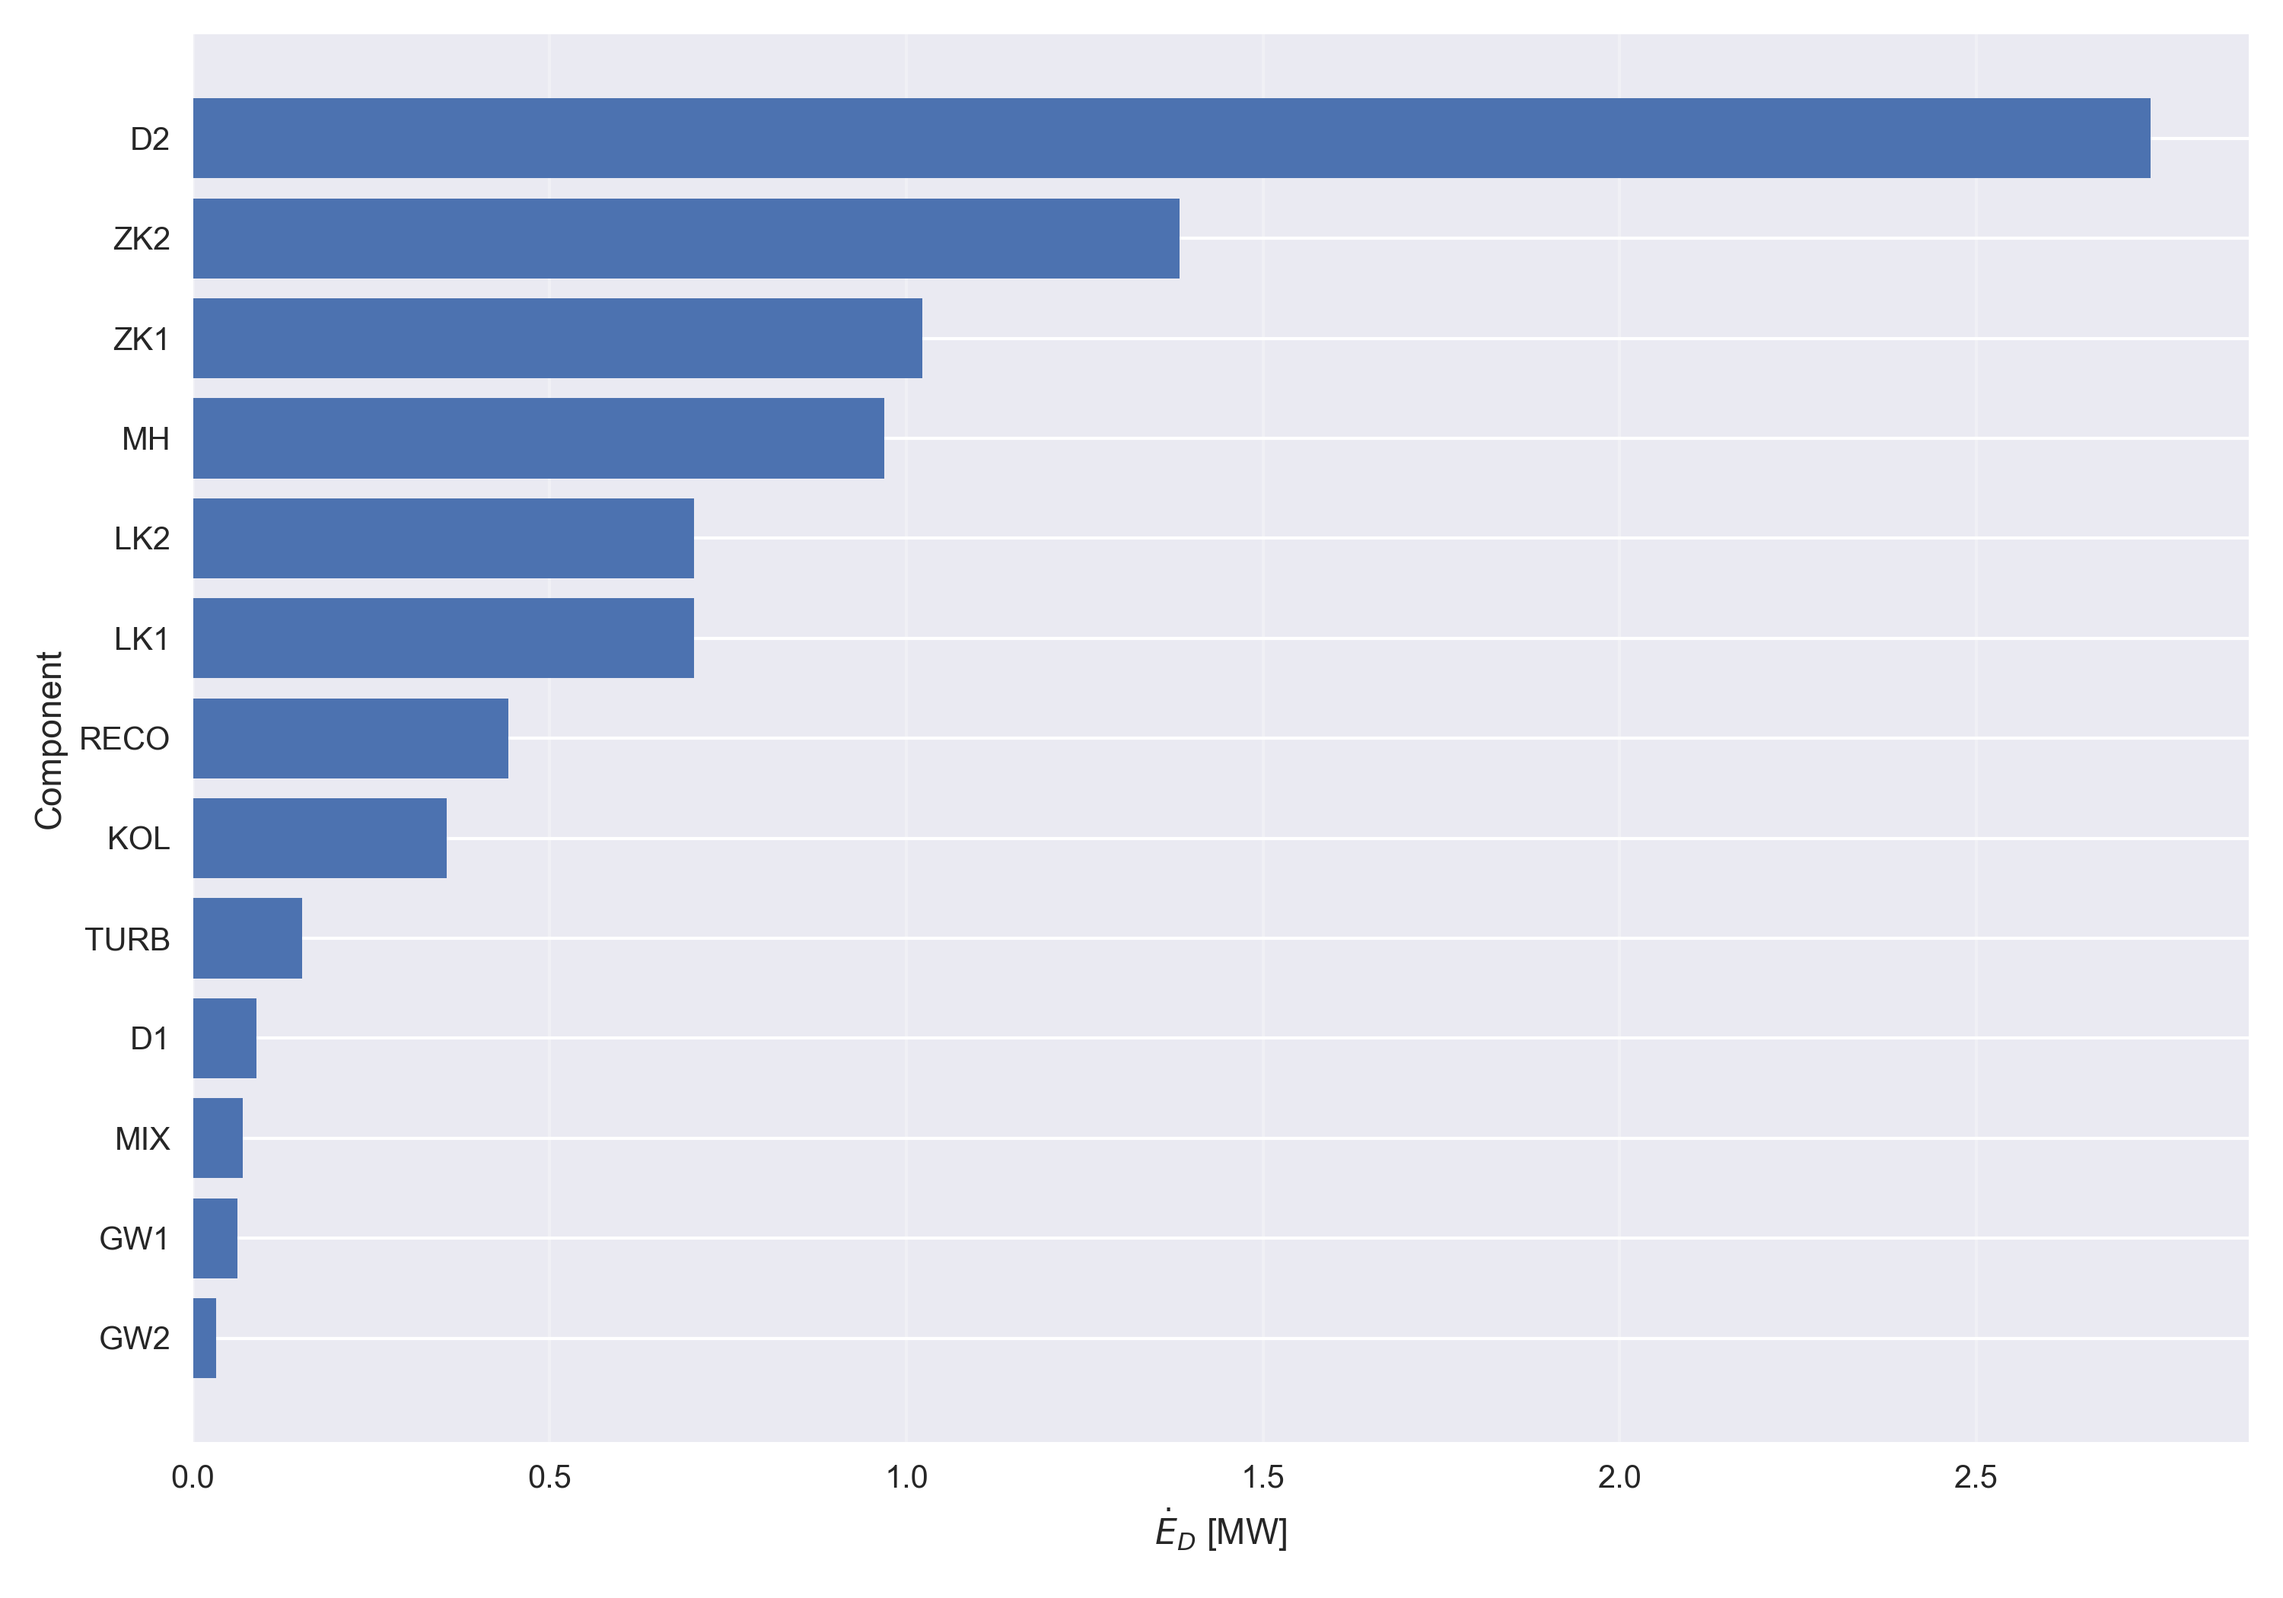
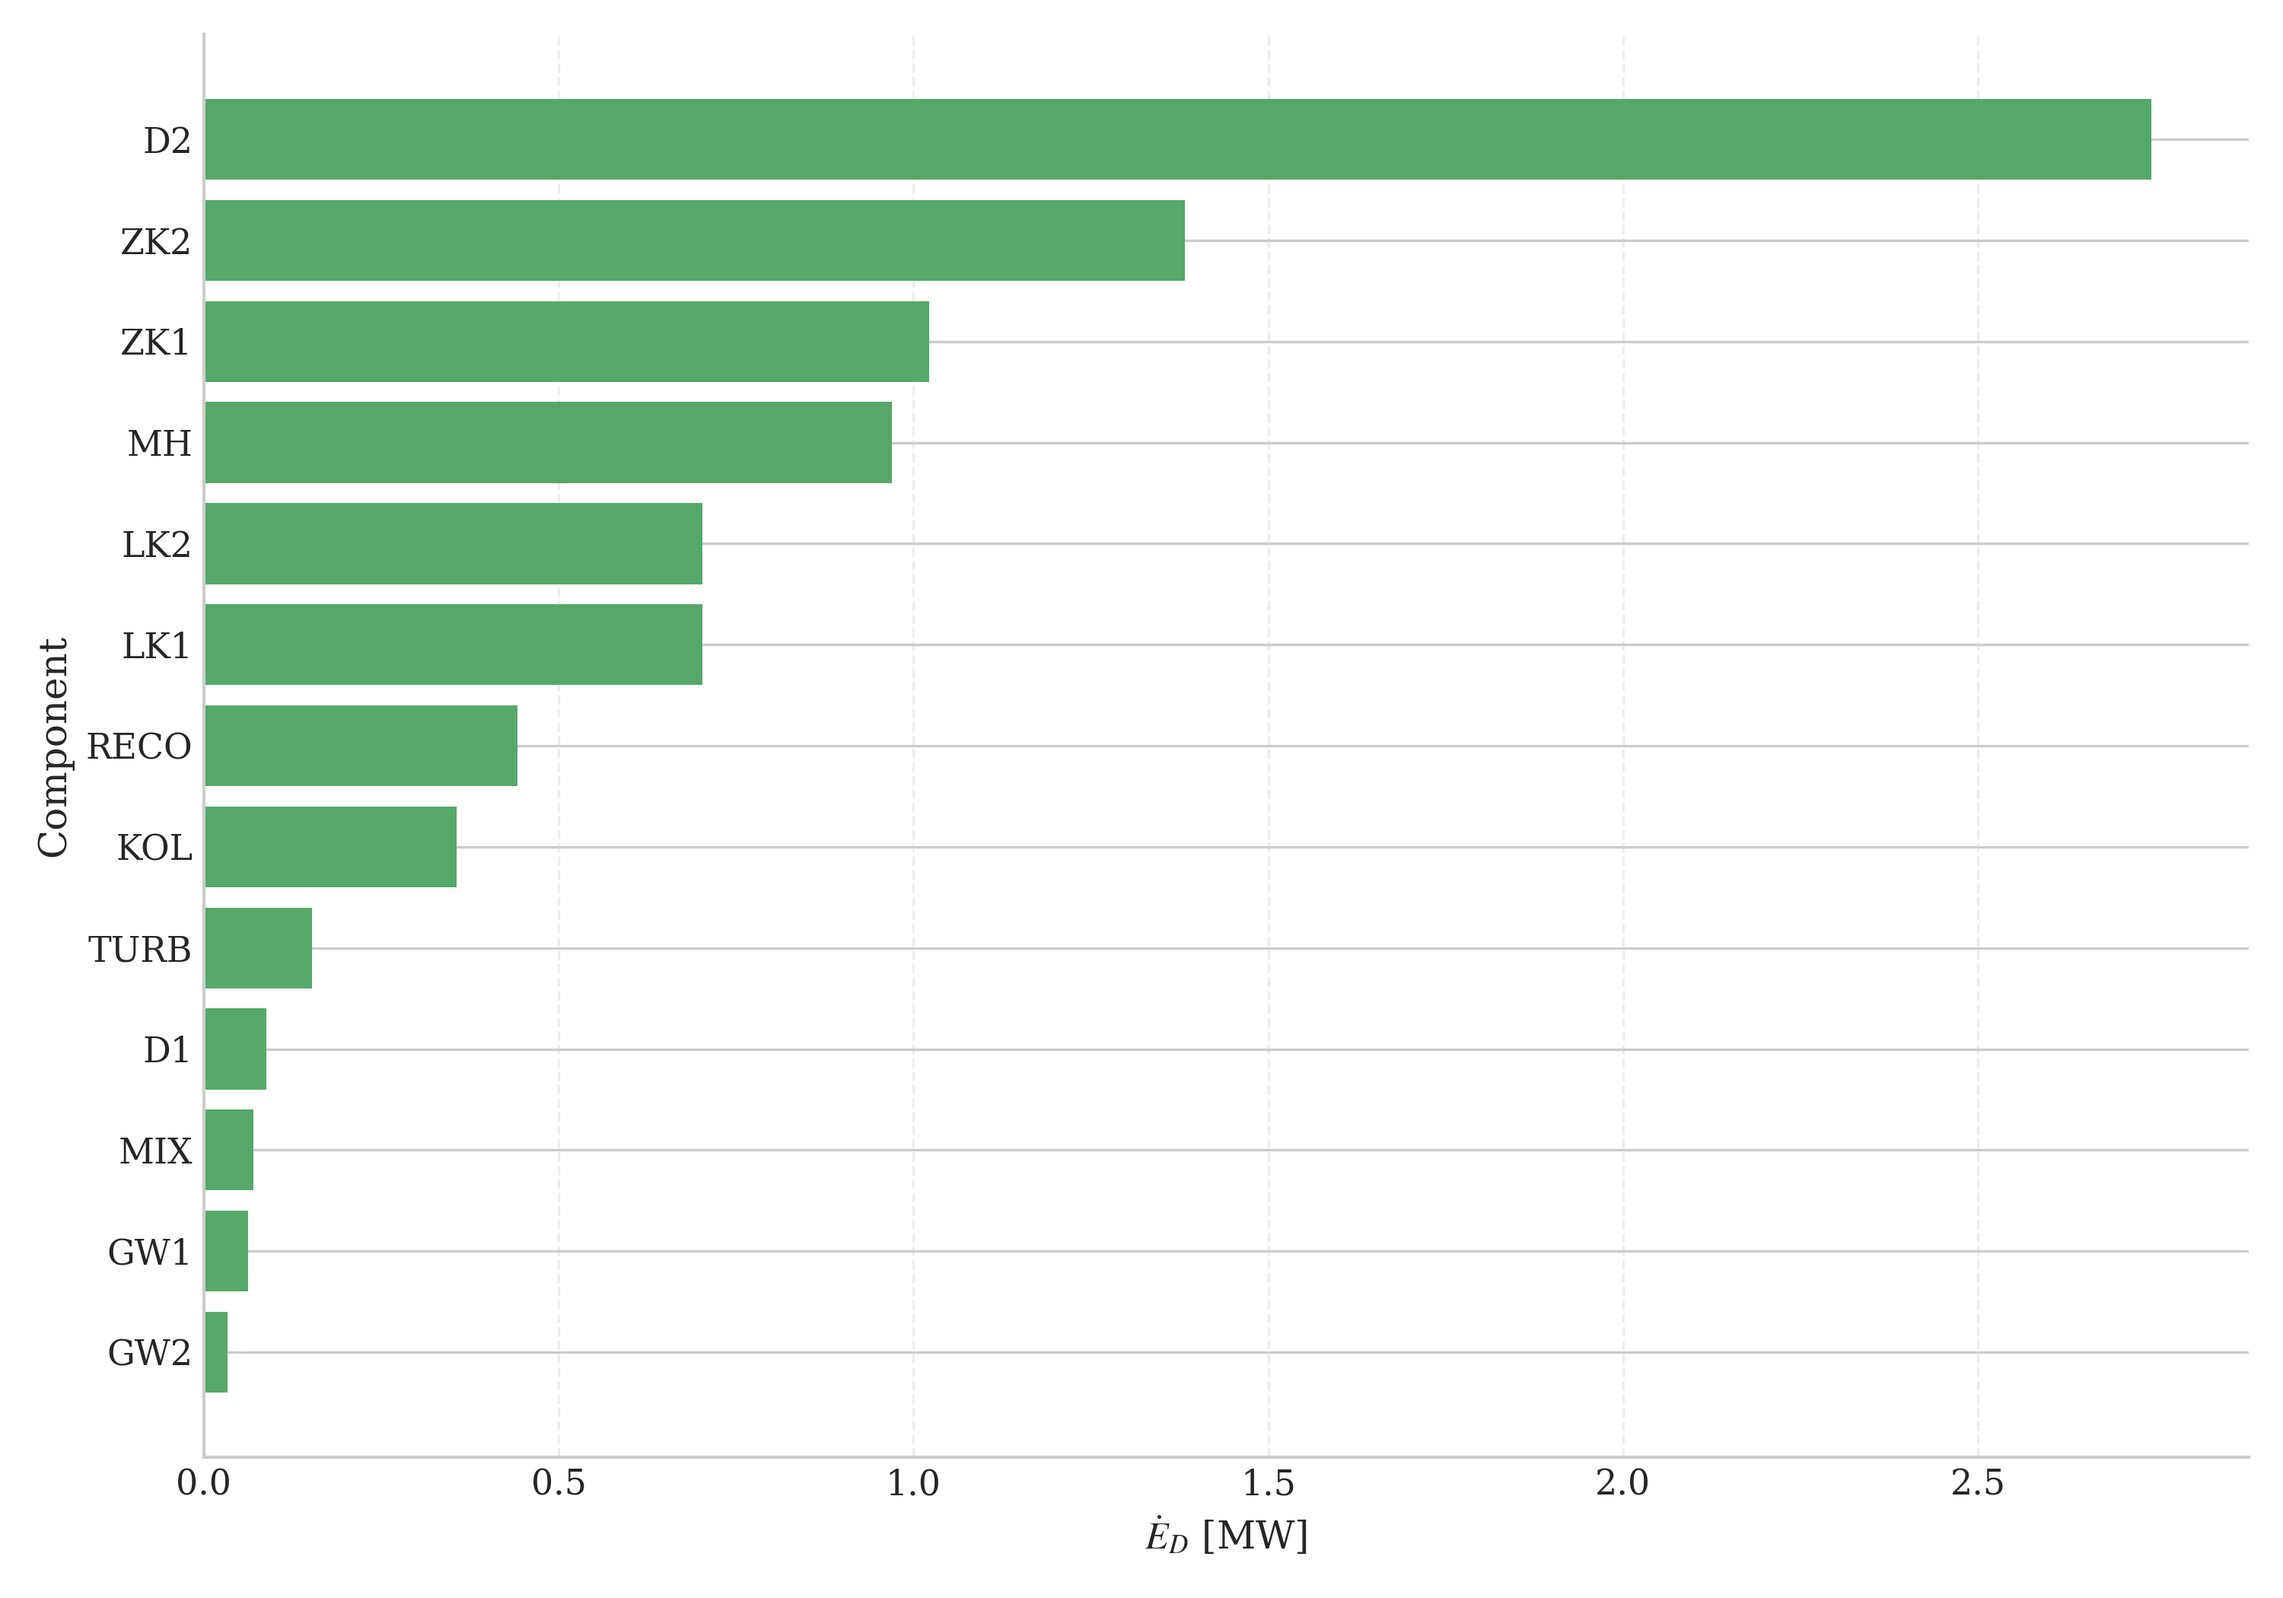
Plots

diff --git a/tools/plot_exergy_results.py b/tools/plot_exergy_results.py
@@ -17,6 +17,38 @@ STREAMS_SINGLE = BASE_DIR / "Overleaf_LaTeX/tabellen/aspen_luftzerlegung_streams
 GLOBAL_DOUBLE = BASE_DIR / "Overleaf_LaTeX/tabellen/aspen_luftzerlegung_global_check.tex"
 GLOBAL_SINGLE = BASE_DIR / "Overleaf_LaTeX/tabellen/aspen_luftzerlegung_global_check_single.tex"
 OUT_DIR = BASE_DIR / "Overleaf_LaTeX/bilder"
+COLOR_SINGLE = "#55A868"
+COLOR_DOUBLE = "#4C72B0"
+PLOT_THEME = {
+    "font.family": "serif",
+    "mathtext.fontset": "stix",
+    "axes.labelsize": 12,
+    "xtick.labelsize": 11,
+    "ytick.labelsize": 11,
+    "legend.fontsize": 11,
+}
+
+
+def _apply_plot_theme(style: str = "seaborn-v0_8-whitegrid"):
+    plt.style.use(style)
+    plt.rcParams.update(PLOT_THEME)
+
+
+def _style_axis(ax, grid_axis: str = "y"):
+    ax.grid(axis=grid_axis, linestyle="--", alpha=0.35)
+    for spine in ["top", "right"]:
+        ax.spines[spine].set_visible(False)
+
+
+def _style_bottom_legend(ax, ncol: int = 2):
+    ax.legend(
+        loc="upper center",
+        bbox_to_anchor=(0.5, -0.12),
+        ncol=ncol,
+        frameon=True,
+        fancybox=False,
+        edgecolor="black",
+    )
 
 
 def _to_float(value: str):
@@ -208,17 +240,7 @@ def plot_grouped_product_purity(df_double_mol: pd.DataFrame, df_single_mol: pd.D
     double_n2 = _pick(df_double_mol, stream_map["double"]["n2"], "x_N2")
     double_o2 = _pick(df_double_mol, stream_map["double"]["o2"], "x_O2")
 
-    plt.style.use("seaborn-v0_8-whitegrid")
-    plt.rcParams.update(
-        {
-            "font.family": "serif",
-            "mathtext.fontset": "stix",
-            "axes.labelsize": 12,
-            "xtick.labelsize": 11,
-            "ytick.labelsize": 10,
-            "legend.fontsize": 10,
-        }
-    )
+    _apply_plot_theme()
 
     fig, ax_left = plt.subplots(figsize=(7.2, 5.4))
     ax_right = ax_left.twinx()
@@ -229,8 +251,8 @@ def plot_grouped_product_purity(df_double_mol: pd.DataFrame, df_single_mol: pd.D
     dx = 0.07
 
     # Colors requested to match existing style.
-    color_single = "#55A868"
-    color_double = "#4C72B0"
+    color_single = COLOR_SINGLE
+    color_double = COLOR_DOUBLE
 
     # Nitrogen product category on left axis.
     b_single_n2 = ax_left.bar(
@@ -314,7 +336,16 @@ def plot_grouped_product_purity(df_double_mol: pd.DataFrame, df_single_mol: pd.D
     # Legend below the plot.
     handles = [b_single_o2[0], b_double_o2[0]]
     labels = ["Einkolonnen-Modell", "Doppelkolonnen-Modell"]
-    ax_left.legend(handles, labels, loc="upper center", bbox_to_anchor=(0.5, -0.14), ncol=2, frameon=False)
+    ax_left.legend(
+        handles,
+        labels,
+        loc="upper center",
+        bbox_to_anchor=(0.5, -0.14),
+        ncol=2,
+        frameon=True,
+        fancybox=False,
+        edgecolor="black",
+    )
 
     fig.subplots_adjust(left=0.16, right=0.90, bottom=0.22, top=0.97)
     fig.savefig(out_path, dpi=300)
@@ -399,22 +430,12 @@ def plot_block_yd_comparison(ed_single: dict, ed_double: dict, out_path: Path):
     s_sub = [payload_single["y"]["comp_only"], payload_single["y"]["gas_only"]]
     d_sub = [payload_double["y"]["comp_only"], payload_double["y"]["gas_only"]]
 
-    plt.style.use("seaborn-v0_8-whitegrid")
-    plt.rcParams.update(
-        {
-            "font.family": "serif",
-            "mathtext.fontset": "stix",
-            "axes.labelsize": 12,
-            "xtick.labelsize": 11,
-            "ytick.labelsize": 11,
-            "legend.fontsize": 11,
-        }
-    )
+    _apply_plot_theme()
 
     fig, ax = plt.subplots(figsize=(8.0, 5.8))
 
-    c_single = "#55A868"
-    c_double = "#4C72B0"
+    c_single = COLOR_SINGLE
+    c_double = COLOR_DOUBLE
 
     dx = 0.12
     x_single = [xi - dx for xi in x]
@@ -436,10 +457,7 @@ def plot_block_yd_comparison(ed_single: dict, ed_double: dict, out_path: Path):
     ax.set_xticklabels(cats)
     ax.set_ylabel(r"$y_{D,b}$ [%]")
     ax.set_ylim(0, max(y_s + y_d + s_sub + d_sub) * 1.2)
-    ax.grid(axis="y", linestyle="--", alpha=0.35)
-
-    for spine in ["top", "right"]:
-        ax.spines[spine].set_visible(False)
+    _style_axis(ax, grid_axis="y")
 
     model_handles, model_labels = ax.get_legend_handles_labels()
     extra_handles = [
@@ -540,17 +558,18 @@ def compute_specific_metrics(metrics_w: dict, product_mass_flow: float) -> dict:
 
 
 def make_plot(df: pd.DataFrame, x_col: str, xlabel: str, out_path: Path, xlim=None):
-    plt.style.use("seaborn-v0_8")
+    _apply_plot_theme()
     fig, ax = plt.subplots(figsize=(10, 7))
 
-    ax.barh(df["Component"], df[x_col], color="#4C72B0")
+    color = COLOR_SINGLE if "single" in out_path.stem.lower() else COLOR_DOUBLE
+    ax.barh(df["Component"], df[x_col], color=color)
     ax.invert_yaxis()
 
     ax.set_xlabel(xlabel)
     ax.set_ylabel("Component")
     if xlim is not None:
         ax.set_xlim(*xlim)
-    ax.grid(axis="x", alpha=0.3)
+    _style_axis(ax, grid_axis="x")
 
     fig.tight_layout()
     fig.savefig(out_path, dpi=300)
@@ -608,24 +627,24 @@ def plot_grouped_system_metrics(metrics_double_mw, metrics_single_mw, out_path: 
     vals_double = [metrics_double_mw.get(c) for c in categories]
     vals_single = [metrics_single_mw.get(c) for c in categories]
 
-    plt.style.use("seaborn-v0_8")
+    _apply_plot_theme()
     fig, ax = plt.subplots(figsize=(10, 6))
     x = range(len(categories))
     width = 0.38
 
-    bars_double = ax.bar([i - width / 2 for i in x], vals_double, width=width, label="Doppelkolonne", color="#4C72B0")
-    bars_single = ax.bar([i + width / 2 for i in x], vals_single, width=width, label="Singlekolonne", color="#55A868")
+    bars_double = ax.bar([i - width / 2 for i in x], vals_double, width=width, label="Doppelkolonne", color=COLOR_DOUBLE)
+    bars_single = ax.bar([i + width / 2 for i in x], vals_single, width=width, label="Singlekolonne", color=COLOR_SINGLE)
 
     ax.set_xticks(list(x))
     ax.set_xticklabels(categories)
     ax.set_ylabel("Exergiestrom [MW]")
-    ax.legend()
-    ax.grid(axis="y", alpha=0.3)
+    _style_axis(ax, grid_axis="y")
+    _style_bottom_legend(ax)
 
     _annotate_vertical_bars(ax, bars_double, vals_double, unit="MW")
     _annotate_vertical_bars(ax, bars_single, vals_single, unit="MW")
 
-    fig.tight_layout()
+    fig.subplots_adjust(left=0.10, right=0.98, bottom=0.20, top=0.96)
     fig.savefig(out_path, dpi=300)
     plt.close(fig)
 
@@ -635,47 +654,47 @@ def plot_grouped_specific_system_metrics(metrics_double_spec, metrics_single_spe
     vals_double = [metrics_double_spec.get(c) for c in categories]
     vals_single = [metrics_single_spec.get(c) for c in categories]
 
-    plt.style.use("seaborn-v0_8")
+    _apply_plot_theme()
     fig, ax = plt.subplots(figsize=(10, 6))
     x = range(len(categories))
     width = 0.38
 
-    bars_double = ax.bar([i - width / 2 for i in x], vals_double, width=width, label="Doppelkolonne", color="#4C72B0")
-    bars_single = ax.bar([i + width / 2 for i in x], vals_single, width=width, label="Singlekolonne", color="#55A868")
+    bars_double = ax.bar([i - width / 2 for i in x], vals_double, width=width, label="Doppelkolonne", color=COLOR_DOUBLE)
+    bars_single = ax.bar([i + width / 2 for i in x], vals_single, width=width, label="Singlekolonne", color=COLOR_SINGLE)
 
     ax.set_xticks(list(x))
     ax.set_xticklabels(categories)
     ax.set_ylabel(r"Spezifischer Exergiestrom [kJ/kg]")
-    ax.legend()
-    ax.grid(axis="y", alpha=0.3)
+    _style_axis(ax, grid_axis="y")
+    _style_bottom_legend(ax)
 
     _annotate_vertical_bars(ax, bars_double, vals_double, unit="kJ/kg")
     _annotate_vertical_bars(ax, bars_single, vals_single, unit="kJ/kg")
 
-    fig.tight_layout()
+    fig.subplots_adjust(left=0.10, right=0.98, bottom=0.20, top=0.96)
     fig.savefig(out_path, dpi=300)
     plt.close(fig)
 
 
 def plot_component_pareto_comparison(df_double: pd.DataFrame, df_single: pd.DataFrame, out_path: Path):
-    plt.style.use("seaborn-v0_8")
+    _apply_plot_theme()
     fig, axes = plt.subplots(2, 1, figsize=(11, 12), sharex=False)
 
-    bars_d = axes[0].barh(df_double["Component"], df_double["E_D_MW"], color="#4C72B0")
+    bars_d = axes[0].barh(df_double["Component"], df_double["E_D_MW"], color=COLOR_DOUBLE)
     axes[0].invert_yaxis()
     axes[0].set_xlabel(r"$\dot{E}_D$ [MW]")
     axes[0].set_ylabel("Doppelkolonne")
-    axes[0].grid(axis="x", alpha=0.3)
+    _style_axis(axes[0], grid_axis="x")
     _annotate_horizontal_bars(axes[0], bars_d, unit="MW")
 
-    bars_s = axes[1].barh(df_single["Component"], df_single["E_D_MW"], color="#55A868")
+    bars_s = axes[1].barh(df_single["Component"], df_single["E_D_MW"], color=COLOR_SINGLE)
     axes[1].invert_yaxis()
     axes[1].set_xlabel(r"$\dot{E}_D$ [MW]")
     axes[1].set_ylabel("Singlekolonne")
-    axes[1].grid(axis="x", alpha=0.3)
+    _style_axis(axes[1], grid_axis="x")
     _annotate_horizontal_bars(axes[1], bars_s, unit="MW")
 
-    fig.tight_layout()
+    fig.subplots_adjust(left=0.16, right=0.97, bottom=0.08, top=0.98, hspace=0.25)
     fig.savefig(out_path, dpi=300)
     plt.close(fig)
 
